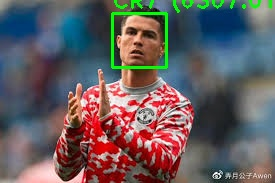
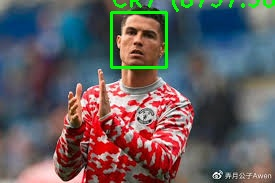
new

Changed region(s): [[0.3782, 0.0, 0.6109, 0.3825], [0.6109, 0.0, 1.0, 0.082]]

diff --git a/face_regconition_cv.py b/face_regconition_cv.py
@@ -6,7 +6,7 @@ def detect_face(img):
     
     gray = cv2.cvtColor(img, cv2.COLOR_BGR2GRAY)
     face_cascade = cv2.CascadeClassifier(cv2.data.haarcascades + 'haarcascade_frontalface_default.xml')
-    faces = face_cascade.detectMultiScale(gray, scaleFactor=1.2, minNeighbors=10)
+    faces = face_cascade.detectMultiScale(gray, scaleFactor=1.1, minNeighbors=5)
 
     if (len(faces) == 0):
         return None, None
@@ -18,16 +18,11 @@ def detect_face(img):
 
 def prepare_training_data(data_folder_path):
     
-    #------STEP-1--------
-    #get the directories (one directory for each subject) in data folder
     dirs = os.listdir(data_folder_path)
     
-    #list to hold all subject faces
     faces = []
-    #list to hold labels for all subjects
     labels = []
     
-    #let's go through each directory and read images within it
     for dir_name in dirs:
             
         label = int(dir_name)
@@ -87,7 +82,7 @@ def predict(subject_dir_path, face_recognizer, subjects):
             continue
             
         img = test_img.copy()
-        
+
         try:
             face, rect = detect_face(img)
             resized_face = cv2.resize(face, (200, 300))
@@ -116,7 +111,7 @@ print("Total faces: ", len(faces))
 print("Total labels: ", len(labels))
 
 
-face_recognizer = cv2.face.EigenFaceRecognizer()
+face_recognizer = cv2.face.EigenFaceRecognizer_create()
 
 #train our face recognizer of our training faces
 face_recognizer.train(faces, np.array(labels))
